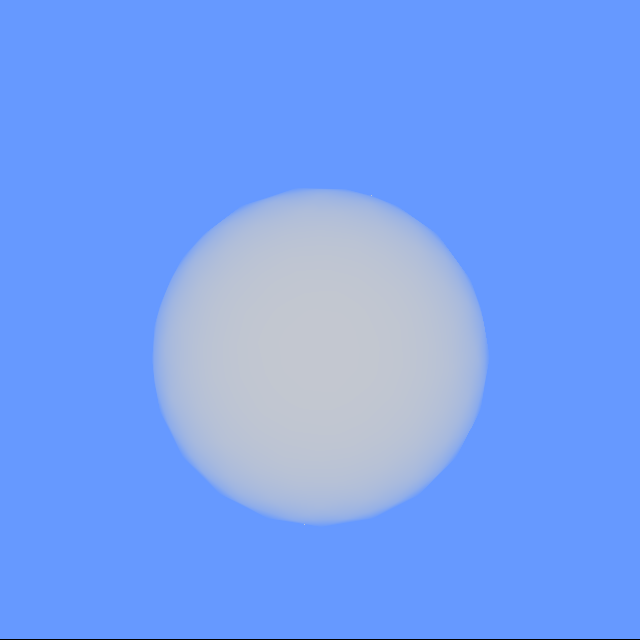
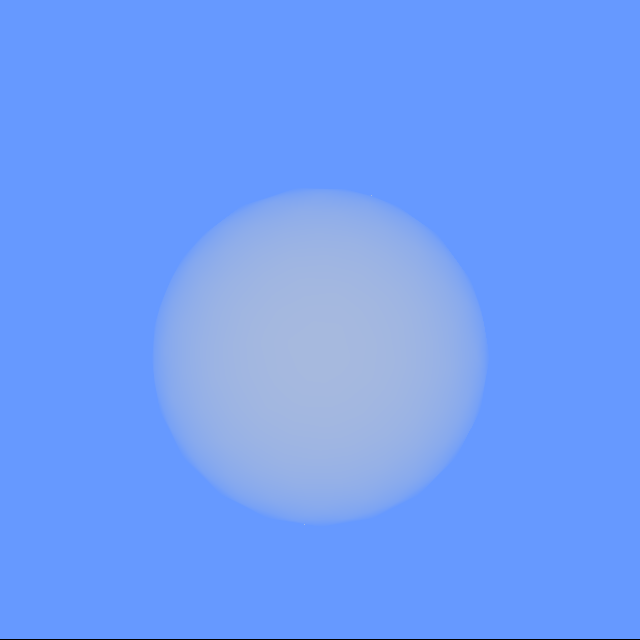
tweaked dissolve from material to match sigma_a from theory

Changed region(s): [[0.25, 0.2812, 0.75, 0.8125]]

diff --git a/VolumeRenderer/RayTracer/ScratchPixel1IntersectionHandler.cpp b/VolumeRenderer/RayTracer/ScratchPixel1IntersectionHandler.cpp
@@ -19,7 +19,7 @@ bool ScratchPixel1IntersectionHandler::HandleIntersection(HandleIntersectionData
 		if (data->previousObjectId == data->objectId) 
 		{
 			auto distance = data->tFar;
-			auto sigma_a = material.dissolve;
+			auto sigma_a = 1 - material.dissolve;
 			//for now we use the diffuse color of the object as the scattering color
 			auto scatteringColor = Vec3f(material.diffuse[0], material.diffuse[1], material.diffuse[2]);
 			auto transmission = exp(-distance * sigma_a);
